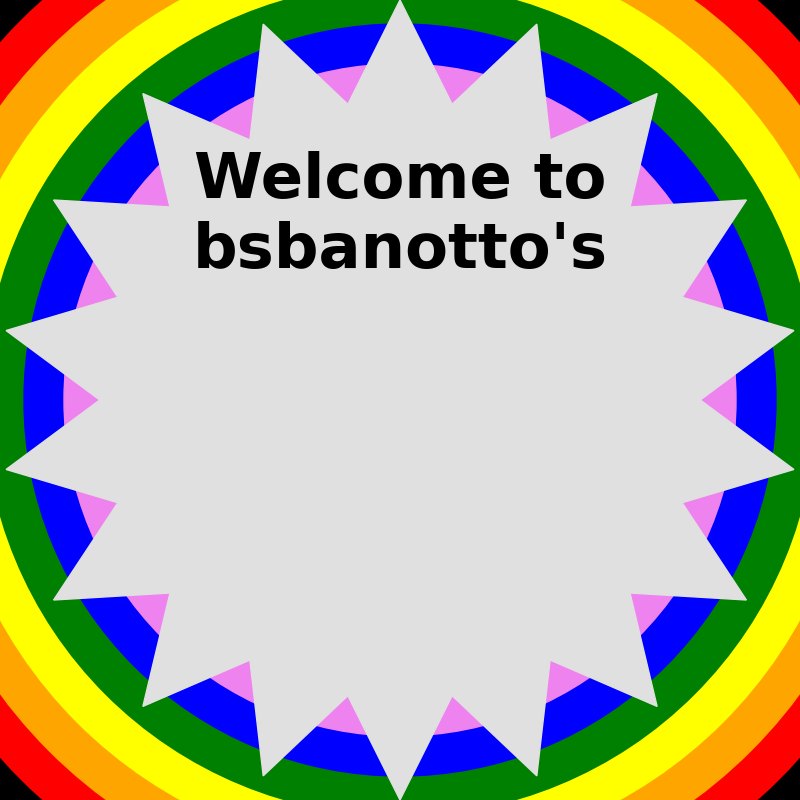
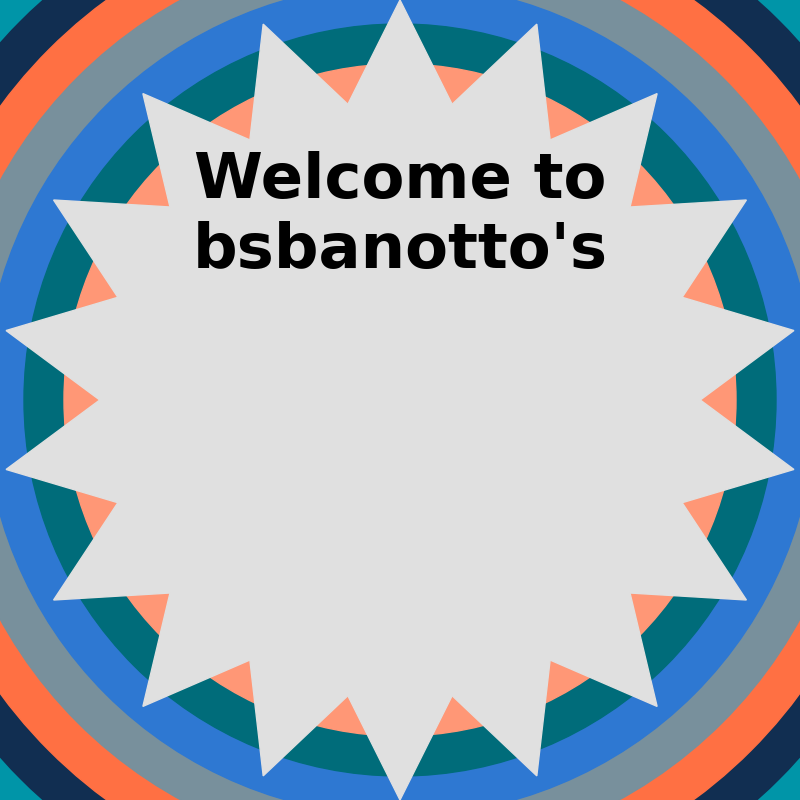
Added color palette to matplotlib_ply.py file and added .png files to gitignore

diff --git a/matplotlib_play.py b/matplotlib_play.py
@@ -8,12 +8,23 @@ import numpy as np
 import os
 import imageio.v2 as imageio
 
+# Define the colors for our palette
+TEAL = (0/255, 149/255, 168/255)
+NAVY = (17/255, 46/255, 81/255)
+ORANGE = (255/255, 112/255, 67/255)
+GREY = (120/255, 144/255, 156/255)
+BLUE = (46/255, 120/255, 210/255)
+DARK_TEAL = (0/255, 108/255, 122/255)
+LIGHT_ORANGE = (255/255, 151/255, 118/255)
+WHITE = (224/255, 224/255, 224/255)
+BLACK = (33/255, 33/255, 33/255)
+
 text_kwargs = dict(
     family='sans-serif',
     ha='center',
     va='center',
     fontsize=45,
-    color='black',
+    color=BLACK,
     wrap=True,
     fontweight='semibold',
     )
@@ -31,13 +42,13 @@ ax.axis('off')
 
 # Putting a bunch of circles on that screen
 radius = .72
-colors = ['black',
-          'red',
-          'orange',
-          'yellow',
-          'green',
-          'blue',
-          'violet',
+colors = [TEAL,
+          NAVY,
+          ORANGE,
+          GREY,
+          BLUE,
+          DARK_TEAL,
+          LIGHT_ORANGE,
           ]
 for circles in range(0, 7):
     circle = patches.Circle(xy=(.5, .5), radius=radius, color=colors[circles])
@@ -64,24 +75,37 @@ midpoint = (vertices[0] + vertices[1]) / 2.0
 num_triangles = 18
 
 # Calculate the rotation angle for each triangle
-rotation_angle = 360.0 / num_triangles
+rot_ang = 360.0 / num_triangles
 
 # Plot the original isosceles triangle
-triangle = patches.Polygon(vertices, closed=True, edgecolor=(224/255, 224/255, 224/255), facecolor=(224/255, 224/255, 224/255))
+triangle = patches.Polygon(vertices,
+                           closed=True,
+                           edgecolor=WHITE,
+                           facecolor=WHITE,
+                           )
 ax.add_patch(triangle)
 
 # Rotate and plot the remaining triangles
 for i in range(1, num_triangles):
     # Rotate the vertices using a rotation matrix
-    rotation_matrix = np.array([[np.cos(np.radians(i * rotation_angle)), -np.sin(np.radians(i * rotation_angle))],
-                                [np.sin(np.radians(i * rotation_angle)), np.cos(np.radians(i * rotation_angle))]])
-    rotated_vertices = np.dot(vertices - midpoint, rotation_matrix) + midpoint
+    rot_mat = np.array([[np.cos(
+        np.radians(i * rot_ang)
+        ), -np.sin(np.radians(i * rot_ang))],
+                        [np.sin(
+                            np.radians(i * rot_ang)
+                            ), np.cos(np.radians(i * rot_ang))]])
+    rotated_vertices = np.dot(vertices - midpoint, rot_mat) + midpoint
 
     # Plot the rotated triangle
-    rotated_triangle = patches.Polygon(rotated_vertices, closed=True, edgecolor=(224/255, 224/255, 224/255), facecolor=(224/255, 224/255, 224/255))
+    rotated_triangle = patches.Polygon(rotated_vertices,
+                                       closed=True,
+                                       edgecolor=WHITE,
+                                       facecolor=WHITE,
+                                       )
     ax.add_patch(rotated_triangle)
 
 # Displaying lines of font with a pause between each one
+plt.savefig(fname='0.png', format='png')
 text1 = 'Welcome to ' + user + '\'s'
 plt.text(.5, .73, text1, **text_kwargs)
 plt.savefig(fname='1.png', format='png')

diff --git a/run.py b/run.py
@@ -72,4 +72,5 @@ if __name__ == "__main__":
     create_gif('./png_files')
 
     # Print the number of repos committed to
-    print('In ' + str(year) + ' You made ' + str(num_commits) + ' commits to ' + str(num_repos) + ' repos!')
+    print('In ' + str(year) + ' You made ' + str(num_commits) +
+          ' commits to ' + str(num_repos) + ' repos!')

diff --git a/extract_from_json.py b/extract_from_json.py
@@ -15,7 +15,7 @@ def extract(filename):
         commit_counts (list): list of commit counts per repo
         num_repos (int): total number of repos committed to
         num_commits (int): total number of commit messages
-    """ 
+    """
     with open(filename) as f:
         parsed_data = json.load(f)
 
